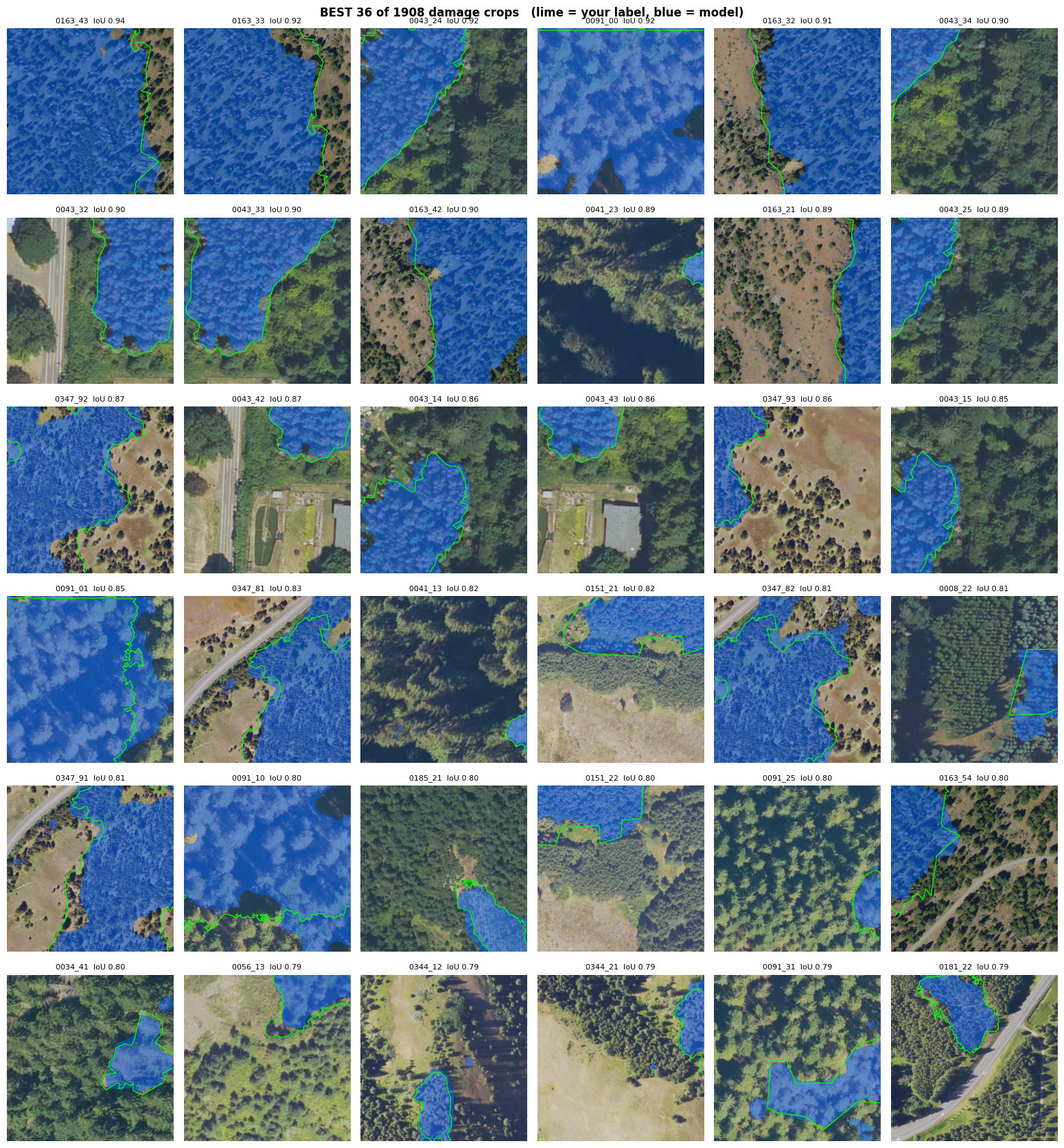
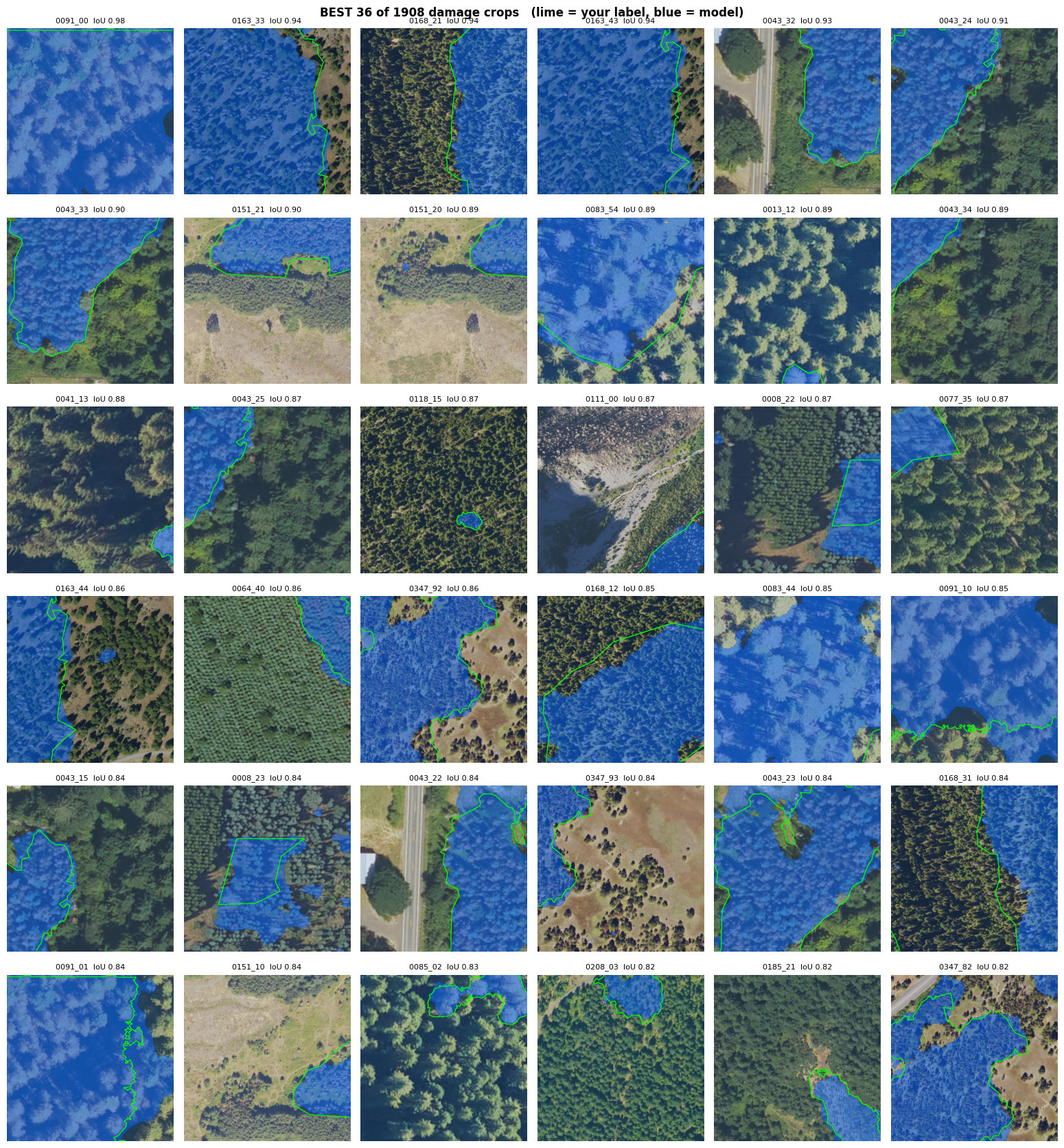
Add false-alarm figure; report performance by damage size; identify open-woodland failure mode

diff --git a/README.md b/README.md
@@ -50,7 +50,9 @@ is not an artefact of some sites contributing more crops than others.
 
 ![Best predictions](docs/figures/sheet_best.jpg)
 
-*Where it works: the 36 best of 1,908 damage crops. Green = hand-drawn label, blue = model.*
+*Where it works: the 36 best of 1,908 damage crops (green = hand-drawn label, blue = model). These
+are closed-canopy forest with a clear edge between damaged and healthy stand — the model traces that
+edge closely, reaching IoU 0.98 at best.*
 
 ### The main finding: pixel scale was the bottleneck, not data volume
 
@@ -88,17 +90,56 @@ The cleanest evidence needs no statistics:
   ended. The reported number is therefore a floor, not a ceiling.
 - **Labels are partial.** Annotators traced damage clusters, not every tree, so IoU is a lower bound.
 
-The failures come in exactly two shapes.
+The failures look like two different problems but are one problem.
 
 ![Missed damage](docs/figures/sheet_worst.jpg)
 
-*Failure 1 — nothing predicted. The label (green) is small or the damage is sparse, and the model
-returns empty. Note how many of these are open ground with a few scattered dead trees.*
+*Failure 1 — nothing predicted at all. 290 of 1,908 crops. A silent crop scores recall 0.*
 
 ![Over-prediction](docs/figures/sheet_paint_everything.jpg)
 
-*Failure 2 — the whole crop is painted. 90 crops, mostly from a handful of source tiles. The blue
-often covers healthy dark canopy, so these are genuine false positives, not missing labels.*
+*Failure 2 — the crop is flooded. 120 crops, clustered on a few source tiles: 21 come from one tile
+alone. The model finds the damage and then keeps going.*
+
+![False alarms on healthy ground](docs/figures/sheet_negatives_worst.jpg)
+
+*The same failure on ground independently verified as damage-free — 191 of 412 healthy crops got some
+false damage, the worst 99.6% painted. There is no "the label was incomplete" excuse here.*
+
+### The failures share one cause
+
+Compare the terrain. The successes are **closed-canopy forest**: dense green stand, damage as a
+distinct patch, a real edge to trace. Almost every failure — silent or flooded, on damage tiles or
+healthy ones — is **open, sparse, dry woodland**: scattered dark crowns over pale soil.
+
+That texture genuinely *is* damage in some places and healthy open forest in others, and the model
+cannot tell them apart. It is not noise; it is one land-cover type the training data barely covers.
+Only 60 confirmed-healthy tiles exist, and few of them are open woodland.
+
+**So the next step is not more data — it is more of one specific kind of data.**
+
+### Small damage is the hard case — but IoU exaggerates how hard
+
+Splitting the crops by how much of them the annotation marks as damaged:
+
+| damage in crop | crops | IoU | recall | model silent |
+|---|---|---|---|---|
+| under 0.5% | 141 | 0.020 | 0.21 | 33% |
+| 0.5 – 1% | 117 | 0.115 | 0.51 | 27% |
+| 1 – 2% | 217 | 0.147 | 0.52 | 27% |
+| 2 – 5% | 357 | 0.218 | 0.58 | 16% |
+| 5 – 10% | 306 | 0.337 | 0.57 | 13% |
+| 10 – 25% | 397 | 0.373 | 0.56 | 11% |
+| over 25% | 373 | 0.409 | 0.50 | 3% |
+
+IoU climbs 20× across these rows. **Recall does not** — it is flat at roughly 0.5 everywhere above
+0.5%. The model finds about the same share of the damage regardless of patch size; IoU simply
+punishes a fixed boundary error far more when the target is small. Only the bottom row is a real
+failure, and it is a real one: a third of those crops get no prediction at all.
+
+This also settles a tempting shortcut. Scoring only crops with over 25% damage would report **0.409**
+instead of 0.257 — but recall would be unchanged, because nothing about the model improved. The
+number would rise purely by deleting the hard cases, so every crop is kept.
 
 Full numbers, negative results and caveats: **[RESULTS.md](RESULTS.md)**.
 

diff --git a/RESULTS.md b/RESULTS.md
@@ -72,8 +72,27 @@ Worth reporting; each one cost time and closed a direction.
 | Affine alignment (ProximityAlign-style) | Fails — the polygon shape is wrong, not its position |
 | NDVI / NIR as an extra input channel | Hurt, then no-op once the `conv1` re-init bug was fixed |
 | ADS prior as a soft distance-transform hint | Consistently negative across 5 logged runs |
-| Per-fold threshold tuning | Worth ≈ 0.01, well inside run-to-run noise |
+| Per-fold threshold tuning | **Reversed 2026-08-09**: the paired A/B now gives −0.024 IoU for fixed 0.5 (0.278 vs 0.254) and 415 silent crops vs 290. Tuning helps; earlier fixed-0.5 numbers were the optimistic ones |
 | Averaging seed repeats at a fixed 0.5 threshold | Makes variance *worse* — averaging sharpens probabilities |
+| Raising the minimum-label threshold to drop thin crops | Would lift IoU 0.257 → 0.409 while leaving recall flat — a metric artefact, not an improvement. Rejected |
+
+### Performance by damage size
+
+| damage in crop | n | IoU | recall | silent |
+|---|---|---|---|---|
+| <0.5% | 141 | 0.020 | 0.21 | 33% |
+| 0.5–1% | 117 | 0.115 | 0.51 | 27% |
+| 1–2% | 217 | 0.147 | 0.52 | 27% |
+| 2–5% | 357 | 0.218 | 0.58 | 16% |
+| 5–10% | 306 | 0.337 | 0.57 | 13% |
+| 10–25% | 397 | 0.373 | 0.56 | 11% |
+| >25% | 373 | 0.409 | 0.50 | 3% |
+
+IoU rises 20× while recall stays flat above 0.5%. The gradient is mostly the geometry of IoU — a
+fixed boundary error costs far more on a small target — not the model failing. The exception is the
+bottom row, where recall genuinely collapses to 0.21 and a third of crops go silent. Median
+predicted/label area ratio is **1.0×**: the model predicts the right *amount* of damage in the wrong
+*place*, so this is a localisation problem, not a calibration one.
 
 ---
 
@@ -84,8 +103,14 @@ Worth reporting; each one cost time and closed a direction.
    swing almost exactly. The model has learned a large-area texture cue and cannot resolve
    individual dead crowns.
 2. **Commission 7.0% ± 2.5%** on verified damage-free tiles, up from ~2%, because cropping cut the
-   share of confirmed negatives from 29% to 18%. Worst case: one healthy crop 99.6% painted.
-   Untested fix: overlap the negative crops (`STRIDE_FRAC_NEG < 1.0`).
+   share of confirmed negatives from 29% to 18%. **191 of 412 healthy crops fired**; worst case 99.6%
+   painted. Untested fix: overlap the negative crops (`STRIDE_FRAC_NEG < 1.0`).
+2b. **Both failure modes share one cause — open, sparse woodland.** The flooded damage crops and the
+   false alarms on healthy ground are the same land cover: scattered dark crowns over pale soil. The
+   successes are closed-canopy stands with a clear damage edge. The model has learned a texture that
+   marks damage in dense forest and marks healthy ground in open forest. This is a coverage gap in
+   the 60 confirmed-negative tiles, not a modelling defect, and it makes *targeted* hard-negative
+   collection in open woodland the highest-value next data.
 3. **The epoch budget truncates training.** `FT_EPOCHS = 30`; in the latest run folds 2 and 5 both
    selected epoch 30 of 30 on inner-validation, i.e. the model had not stopped improving. The
    headline is a floor. Raising the budget is the cheapest untried improvement.
